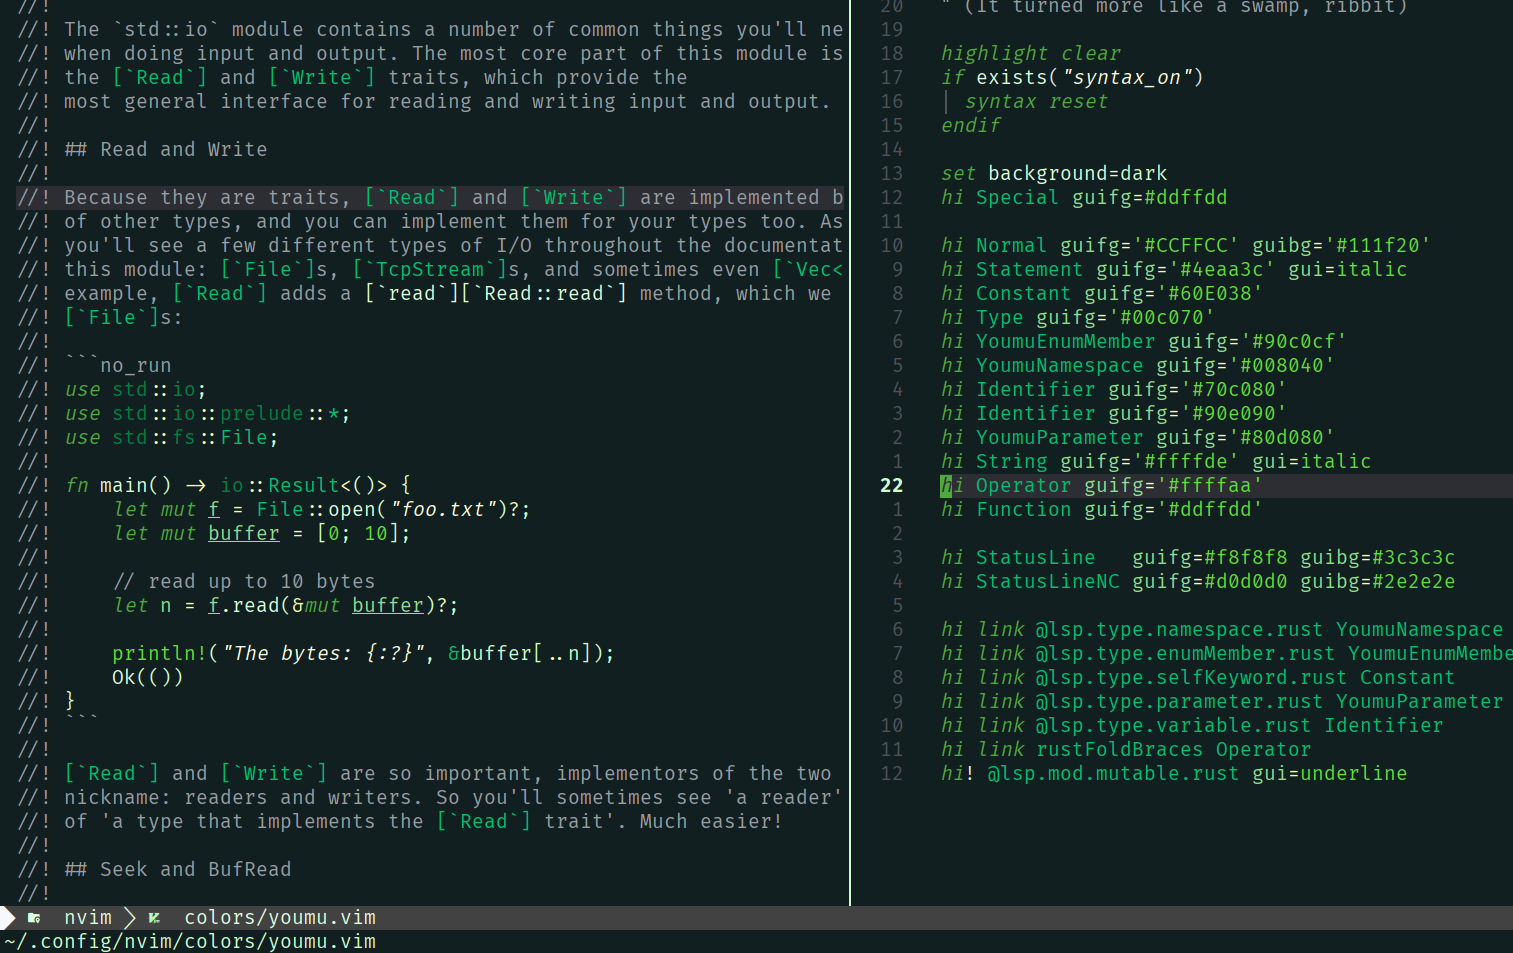
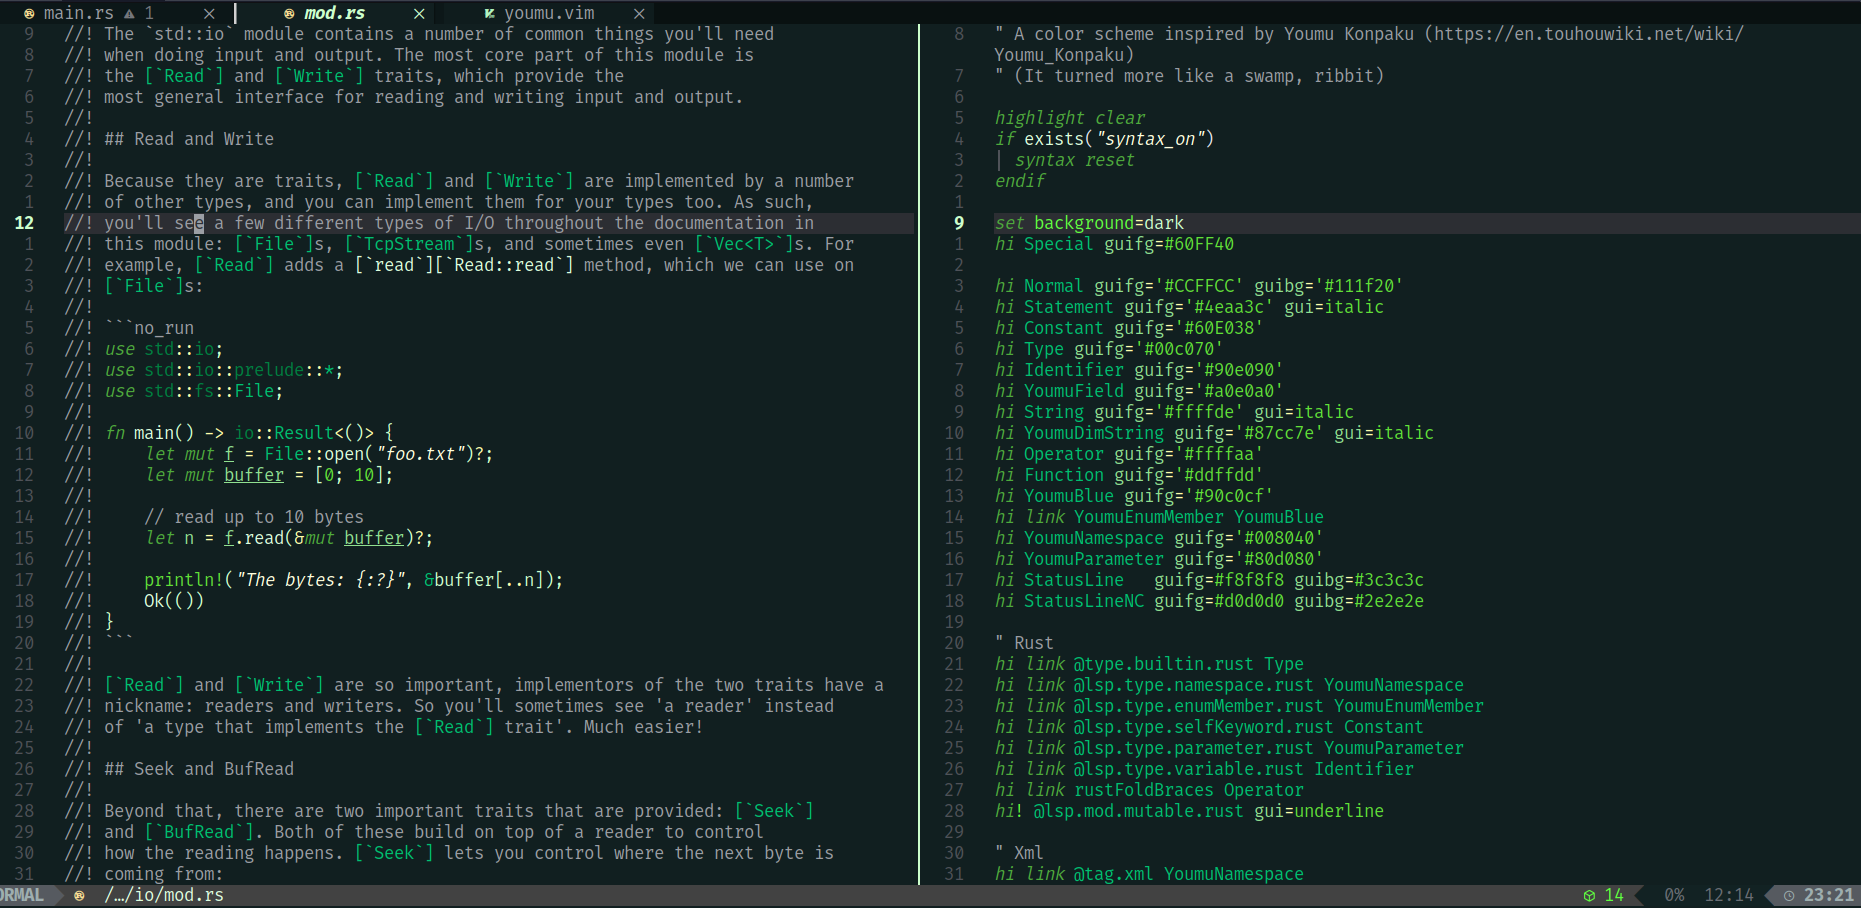
Example/Readme

Changed region(s): [[0.0, 0.0, 1.0, 1.0], [0.497, 0.6784, 0.5281, 0.7093]]

diff --git a/README.md b/README.md
@@ -1,9 +1,9 @@
 # Youmu Konpaku Inspired
 
-This is a colorscheme for nvim is inspired by [Youmu Konpaku](https://en.touhouwiki.net/wiki/Youmu_Konpaku) from Touhou games by ZUN.    
+This is a colorscheme for nvim is inspired by [Youmu Konpaku](https://en.touhouwiki.net/wiki/Youmu_Konpaku) from Touhou games by ZUN.
 (Though it looks like a swamp, ribbit)
 
-Besides general colors, it overwrites LSP tokens for rust, which was my ~~main~~ only target.
+Besides general colors, it overwrites LSP tokens for rust, and some other languages that I sometimes use or read.
 
 # Installation
 
@@ -24,4 +24,4 @@ vim.cmd([[
 
 ![example.png](./examples/example-01.png)
 
-This is `std::io` from rust and file in lazyvim environment.
+This is `std::io` from rust and the colorscheme file itself.
